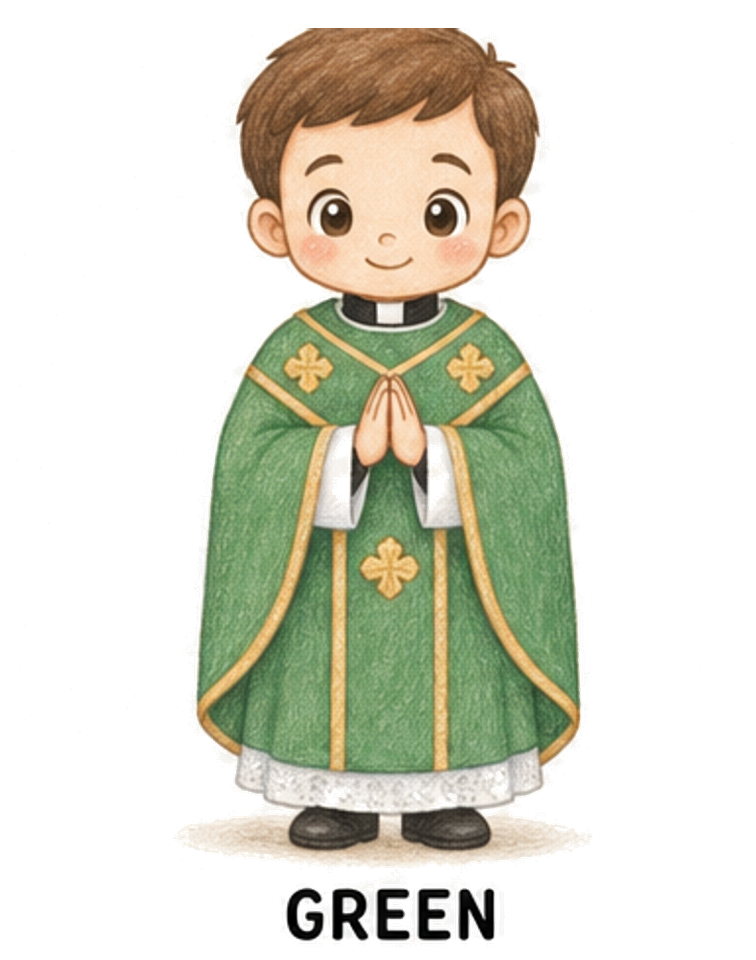
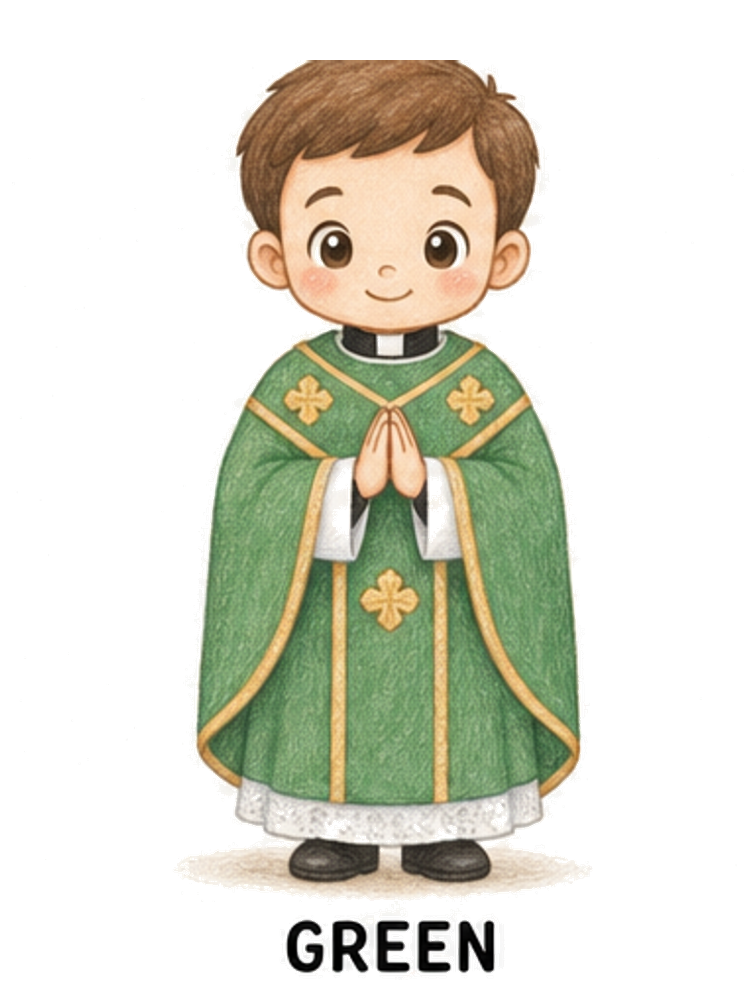
fix: vestment PNG headroom for green/purple/light purple; simplify UI
Extra top padding on green, purple, and lavender sprites; remove round
descriptions, hints, and footer copy; rename Lavender to Light purple.

Changed region(s): [[0.2434, 0.0312, 0.791, 1.0], [0.5172, 0.7188, 0.5476, 0.75]]

diff --git a/src/lib/liturgical-vestments-game.ts b/src/lib/liturgical-vestments-game.ts
@@ -9,9 +9,7 @@ export type VestmentColor =
 export type LiturgicalDressRound = {
   id: string;
   title: string;
-  description: string;
   correctColor: VestmentColor;
-  hint?: string;
 };
 
 export const VESTMENT_COLORS: Record<
@@ -20,104 +18,28 @@ export const VESTMENT_COLORS: Record<
 > = {
   green: { label: "Green", hex: "#388e3c", stroke: "#1b5e20" },
   purple: { label: "Purple", hex: "#6a1b9a", stroke: "#4a148c" },
-  lavender: { label: "Lavender", hex: "#b39ddb", stroke: "#7e57c2" },
+  lavender: { label: "Light purple", hex: "#b39ddb", stroke: "#7e57c2" },
   white: { label: "White", hex: "#fafafa", stroke: "#9e9e9e" },
   red: { label: "Red", hex: "#c62828", stroke: "#b71c1c" },
   rose: { label: "Pink", hex: "#f06292", stroke: "#c2185b" },
 };
 
-/**
- * Dressing-game prompts. Advent & Lent include Sunday-by-Sunday vestment colors
- * (purple, lavender, and pink/rose vary by week).
- */
+/** Advent & Lent include Sunday-by-Sunday vestment colors. */
 export const LITURGICAL_DRESS_ROUNDS: LiturgicalDressRound[] = [
-  {
-    id: "ordinary",
-    title: "Ordinary Time",
-    description: "Most Sundays of the year—we listen to Jesus and grow as his friends.",
-    correctColor: "green",
-    hint: "Green is the usual color outside special seasons.",
-  },
-  {
-    id: "christmas",
-    title: "Christmas Season",
-    description: "We celebrate that Jesus Christ, the Son of God, was born for us.",
-    correctColor: "white",
-    hint: "White stands for joy, light, and holiness.",
-  },
-  {
-    id: "pentecost",
-    title: "Pentecost",
-    description: "The Holy Spirit comes upon the Apostles and the whole Church.",
-    correctColor: "red",
-    hint: "Red reminds us of fire and the Holy Spirit.",
-  },
-  {
-    id: "advent-1",
-    title: "Advent — 1st Sunday",
-    description: "A new year of grace begins as we start waiting for Christmas.",
-    correctColor: "purple",
-    hint: "Most Advent days use purple (violet) vestments.",
-  },
-  {
-    id: "advent-2",
-    title: "Advent — 2nd Sunday",
-    description: "We keep preparing our hearts while the light of Christ draws nearer.",
-    correctColor: "lavender",
-    hint: "Some parishes use a lighter violet or lavender on early Advent Sundays.",
-  },
-  {
-    id: "advent-gaudete",
-    title: "Advent — 3rd Sunday (Gaudete)",
-    description: "“Rejoice!” The Church is joyful because the Lord is very near.",
-    correctColor: "rose",
-    hint: "Gaudete Sunday — priests may wear rose or pink vestments.",
-  },
-  {
-    id: "advent-4",
-    title: "Advent — 4th Sunday",
-    description: "Only a few days remain before we celebrate the birth of Jesus.",
-    correctColor: "purple",
-    hint: "After Gaudete, Advent returns to purple until Christmas.",
-  },
-  {
-    id: "lent-1",
-    title: "Lent — 1st Sunday",
-    description: "Lent begins: prayer, fasting, and helping those in need.",
-    correctColor: "purple",
-    hint: "Lent is a penitential season—usually purple vestments.",
-  },
-  {
-    id: "lent-2",
-    title: "Lent — 2nd Sunday",
-    description: "We walk with Jesus in the desert and turn back to God.",
-    correctColor: "lavender",
-    hint: "A lighter violet or lavender is sometimes used in early Lent.",
-  },
-  {
-    id: "lent-3",
-    title: "Lent — 3rd Sunday",
-    description: "We continue fasting and listening to God’s word.",
-    correctColor: "purple",
-    hint: "Most Lenten Sundays are purple before Laetare.",
-  },
-  {
-    id: "lent-laetare",
-    title: "Lent — 4th Sunday (Laetare)",
-    description: "“Rejoice!” The Church takes heart—Easter is coming soon.",
-    correctColor: "rose",
-    hint: "Laetare Sunday — rose or pink vestments are allowed.",
-  },
-  {
-    id: "lent-5",
-    title: "Lent — 5th Sunday",
-    description: "Holy Week is almost here; we prepare for the Passion of the Lord.",
-    correctColor: "purple",
-    hint: "When Lent has a fifth Sunday, vestments are purple again.",
-  },
+  { id: "ordinary", title: "Ordinary Time", correctColor: "green" },
+  { id: "christmas", title: "Christmas Season", correctColor: "white" },
+  { id: "pentecost", title: "Pentecost", correctColor: "red" },
+  { id: "advent-1", title: "Advent — 1st Sunday", correctColor: "purple" },
+  { id: "advent-2", title: "Advent — 2nd Sunday", correctColor: "lavender" },
+  { id: "advent-gaudete", title: "Advent — 3rd Sunday (Gaudete)", correctColor: "rose" },
+  { id: "advent-4", title: "Advent — 4th Sunday", correctColor: "purple" },
+  { id: "lent-1", title: "Lent — 1st Sunday", correctColor: "purple" },
+  { id: "lent-2", title: "Lent — 2nd Sunday", correctColor: "lavender" },
+  { id: "lent-3", title: "Lent — 3rd Sunday", correctColor: "purple" },
+  { id: "lent-laetare", title: "Lent — 4th Sunday (Laetare)", correctColor: "rose" },
+  { id: "lent-5", title: "Lent — 5th Sunday", correctColor: "purple" },
 ];
 
-/** Fisher–Yates shuffle; every round appears once per game (order is random). */
 export function shuffleRounds(): LiturgicalDressRound[] {
   const pool = [...LITURGICAL_DRESS_ROUNDS];
   for (let i = pool.length - 1; i > 0; i--) {

diff --git a/src/components/LiturgicalVestmentsGame.tsx b/src/components/LiturgicalVestmentsGame.tsx
@@ -95,16 +95,8 @@ export function LiturgicalVestmentsGame() {
       <div className="grid gap-6 p-4 lg:grid-cols-[1fr_320px]">
         <div>
           <h2 className="text-xl font-bold text-[var(--color-ink)]">{round.title}</h2>
-          <p className="mt-2 text-[var(--color-muted)]">{round.description}</p>
-          {round.hint && (
-            <p className="mt-1 text-sm text-[var(--color-muted)]">💡 {round.hint}</p>
-          )}
 
-          <p className="mt-4 text-sm font-semibold text-[var(--color-ink)]">
-            Pick the liturgical color for this Sunday and dress Father in the chasuble:
-          </p>
-
-          <div className="mt-2 flex justify-center">
+          <div className="mt-4 flex justify-center overflow-visible pt-1">
             <PriestVestmentFigure chasubleColor={selected} />
           </div>
         </div>
@@ -183,10 +175,6 @@ export function LiturgicalVestmentsGame() {
             </div>
           )}
 
-          <p className="text-xs text-[var(--color-muted)]">
-            Each game shuffles every question. In Advent and Lent the vestment color can change by
-            Sunday—purple, lavender, or pink (Gaudete &amp; Laetare).
-          </p>
         </aside>
       </div>
     </div>
